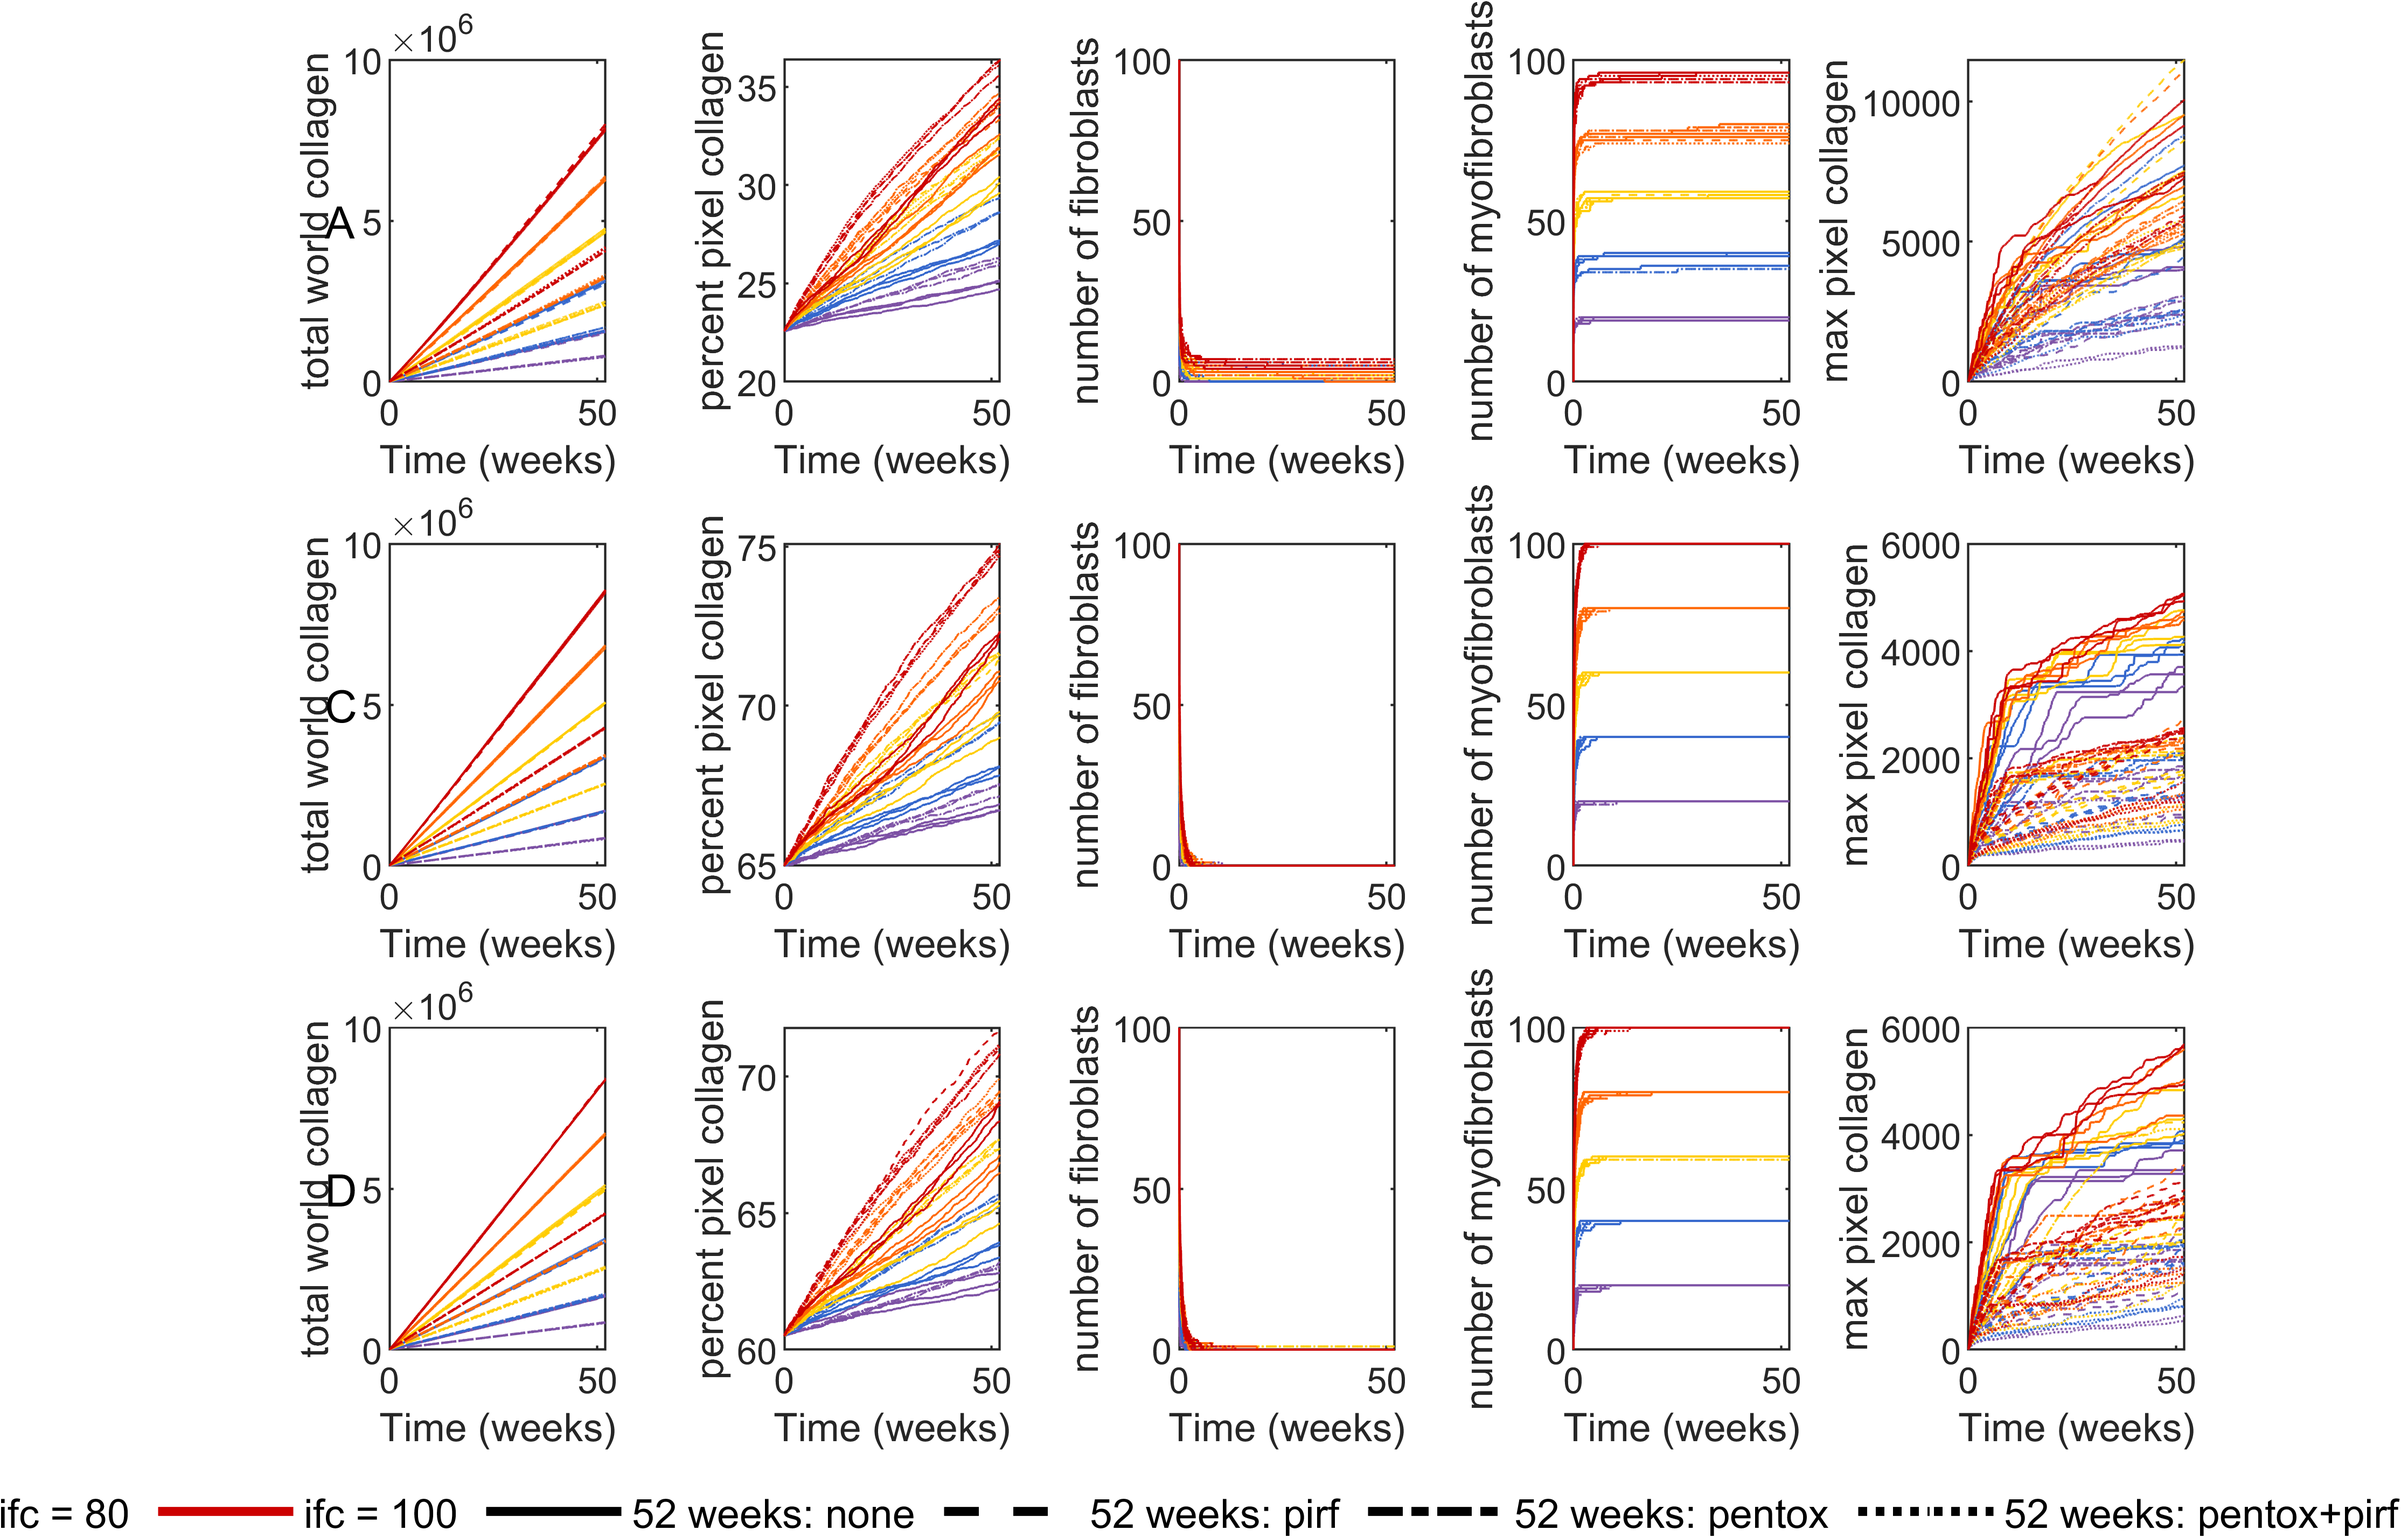
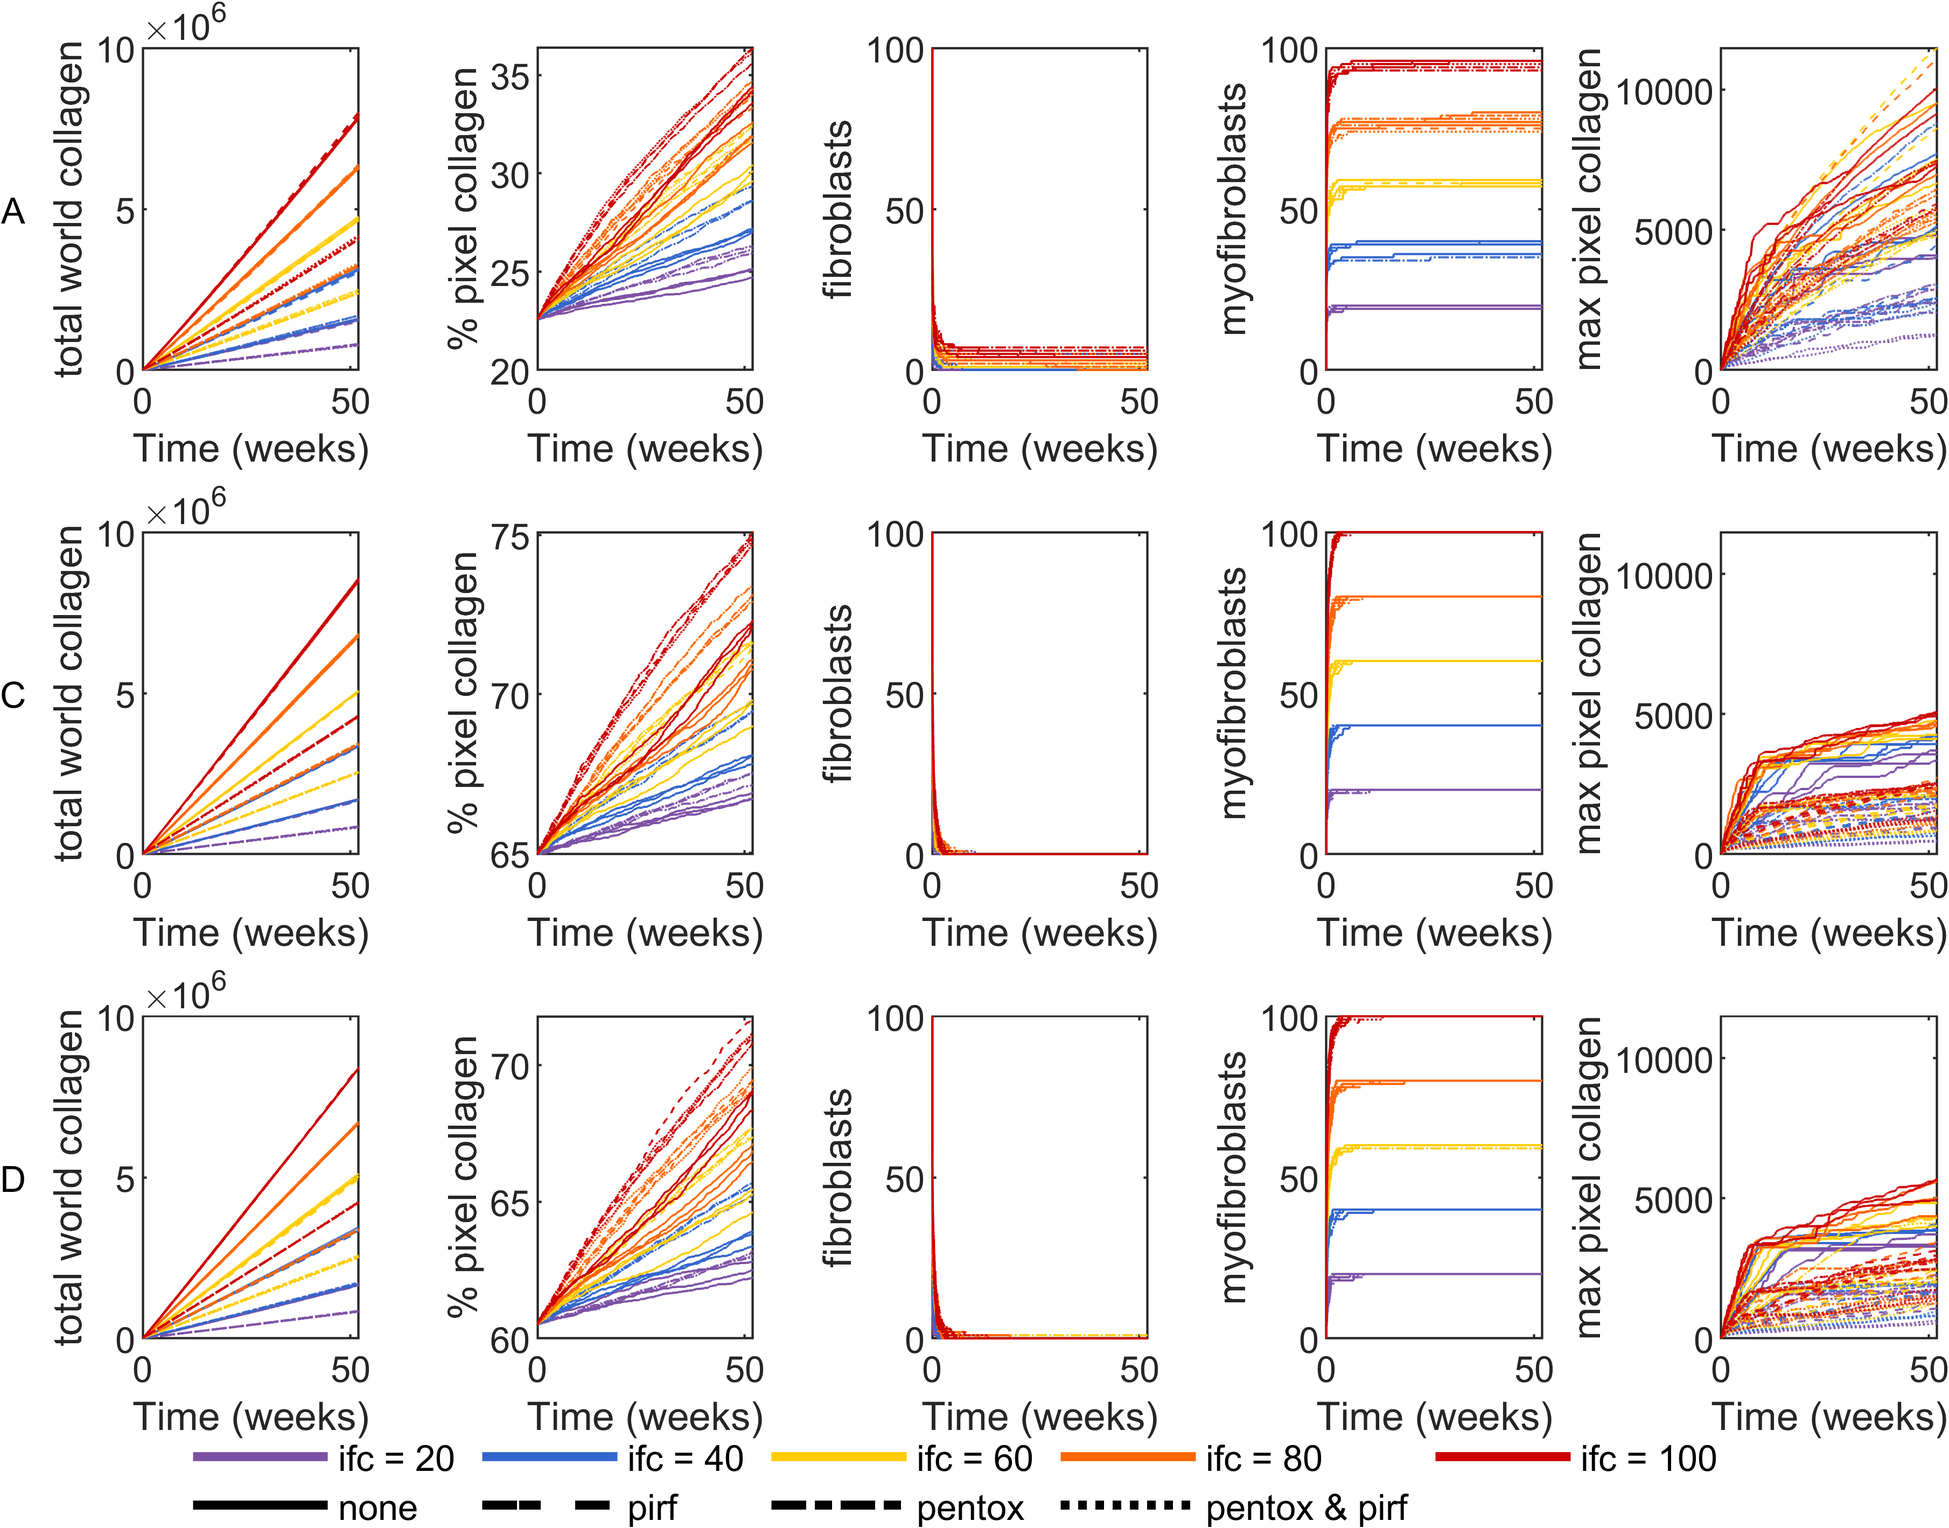
updated for better case label positioning

diff --git a/PlotBehaviorSpace.m b/PlotBehaviorSpace.m
@@ -68,7 +68,7 @@ fig1Colors = [
     0.8 0.0 0.0;        % red
 ];
 
-ReporterLabels = {'total world collagen', 'percent pixel collagen', 'number of fibroblasts', 'number of myofibroblasts', 'max pixel collagen'};
+ReporterLabels = {'total world collagen', '% pixel collagen', 'fibroblasts', 'myofibroblasts', 'max pixel collagen'};
 for i = 2:numReporters
     figure(1)
     subplot(length(ResultsPath),numReporters-1,(z-1)*(numReporters-1) + (i-1));
@@ -89,6 +89,7 @@ for i = 2:numReporters
     
         % Plot each run with its style
         plot(time, reporterValues(:, r), 'LineStyle', currentStyle,'Color', currentColor);
+        
         hold on;
     end
     hold off;
@@ -96,9 +97,7 @@ for i = 2:numReporters
     xlim([xmin xmax])
     xlabel('Time (weeks)');
     ylabel(ReporterLabels{i-1})
-    if i == 2;
-        text(-0.3, 0.5, string(ResultsString(z)), 'Units', 'normalized', 'FontWeight', 'Normal')
-    end
+
 end
 
 % 
@@ -127,7 +126,7 @@ end
 %     % Find unique values in the row
 %     uniqueValues = unique(rowData);
 % 
-%     for i = 2:numReporters
+%     for i = [2 3 numReporters]% 2:numReporters; don't further process final numbers of fibroblasts or myofibroblasts
 %         ReporterNumber = i;
 %         for k = 1:length(uniqueValues)
 %             figure(1+(i-1))
@@ -182,7 +181,6 @@ end
 %             end
 %             hold off
 % 
-%             if i == 2 || i == 3 || i == 6 % don't make bar graphs for final numbers of fibroblasts or myofibroblasts
 %                 figure(2*(numReporters-1) + i)
 %                 subplot(length(ResultsPath),length(uniqueValues),(z-1)*length(uniqueValues) + k);
 %                 hold on
@@ -216,7 +214,6 @@ end
 %                     text(-0.5, 0.5, string(ResultsString(z)), 'Units', 'normalized', 'FontWeight', 'Normal')
 %                 end
 %                 hold off
-%             end
 %         end
 %     end
 % end
@@ -226,6 +223,27 @@ end
 
 figure(1)
 hold on
+
+
+% Get handle to all axes created by subplot
+allAxes = findall(gcf, 'Type', 'axes');
+
+% Apply font size to each subplot
+for k = 1:length(allAxes)
+    set(allAxes(k), 'FontSize', 8);
+end
+
+
+% Sort them in the order they were created (subplot order)
+allAxes = flipud(allAxes);  % MATLAB stores them in reverse order
+
+% Get Y-limits from the 5th panel
+yLimitsPanel5 = ylim(allAxes(5));
+
+% Apply same limits to panels 10 and 15
+ylim(allAxes(10), yLimitsPanel5);
+ylim(allAxes(15), yLimitsPanel5);
+
 % Create an invisible axes that spans the whole figure
 axLegend = axes('Position',[0 0 1 1],'Visible','off');
 hold(axLegend, 'on');
@@ -238,46 +256,68 @@ for c = 1:length(fig1Colors)
 end
 
 % --- Line Style Legend ---
-styleLabels = {"52 weeks: none","52 weeks: pirf","52 weeks: pentox","52 weeks: pentox+pirf"};
+styleLabels = {"none","pirf","pentox","pentox & pirf"};
 styleHandles = gobjects(length(lineStyles),1);
 for s = 1:length(lineStyles)
     styleHandles(s) = plot(axLegend, nan, nan, lineStyles{s}, 'Color', [0 0 0], 'LineWidth', 2);
 end
 
+% Combine handles: colors first, then styles
+allHandles = [colorHandles; styleHandles];
 
 % Make labels a uniform string array (avoids mixed-type cell issues)
 labels = [string(colorLabels), string(styleLabels)];
 
 % Create combined legend at bottom of the entire figure (target the legend axes explicitly)
-lgd = legend(axLegend, [colorHandles; styleHandles], labels, ...
-    'Orientation', 'horizontal', 'Location', 'southoutside');
+lgd = legend(axLegend, allHandles, labels, ...
+    'Orientation', 'horizontal', 'Location', 'southoutside','Fontsize',8);
 %lgd.Title.String = 'Color = IFC | Line Style = 52-week treatment';
 lgd.Box = 'off';
 
-        figname = strcat('PlotBSAll');
-        %saveas(gcf,strcat(figname, '.png'));
+% Force two rows: first row = colors, second row = styles
+lgd.NumColumns = max(length(colorHandles), length(styleHandles));
 
-        fig= gcf;
+cols = numReporters-1;
+for r = 1:3
+    % Find the first subplot in this row
+    idx = (r-1)*cols + 1;
+    ax = allAxes(idx);
 
-        % Adjust based on figure's aspect ratio
-        widthInches = 7.5;
-        heightInches = 5;
-        
-        % Get current size in inches
-        set(fig, 'Units', 'Inches');
-        figPos = get(fig, 'Position');
-        
-        
-        % Set figure size
-        set(fig, 'Position', [1, 1, widthInches, heightInches]);
-        set(fig, 'PaperUnits', 'Inches');
-        set(fig, 'PaperSize', [widthInches, heightInches]);
-        figPos = get(fig, 'Position');
-        set(fig, 'PaperPositionMode', 'manual');
-        fig = gcf;
-        
-        %figname = 'test';
-        exportgraphics(fig,strcat(figname, '.png'),'Resolution',600)
+    % Add text to the left side of the row
+    text(ax, -0.6, 0.5, ResultsString(r), ...
+        'Units', 'normalized', ...
+        'HorizontalAlignment', 'center', ...
+        'FontSize', 8);
+
+end
+
+
+
+figname = strcat('PlotBSAll');
+%saveas(gcf,strcat(figname, '.png'));
+
+fig= gcf;
+
+% Adjust based on figure's aspect ratio
+widthInches = 7.5;
+heightInches = 5;
+
+% Get current size in inches
+figPos = get(fig, 'Position');
+set(fig, 'Units', 'Inches');
+
+
+
+% Set figure size
+set(fig, 'Position', [1, 1, widthInches, heightInches]);
+set(fig, 'PaperUnits', 'Inches');
+set(fig, 'PaperSize', [widthInches, heightInches]);
+figPos = get(fig, 'Position');
+set(fig, 'PaperPositionMode', 'manual');
+fig = gcf;
+
+%figname = 'test';
+exportgraphics(fig,strcat(figname, '.png'),'Resolution',600)
 
 
 % % Get handles to all open figures
